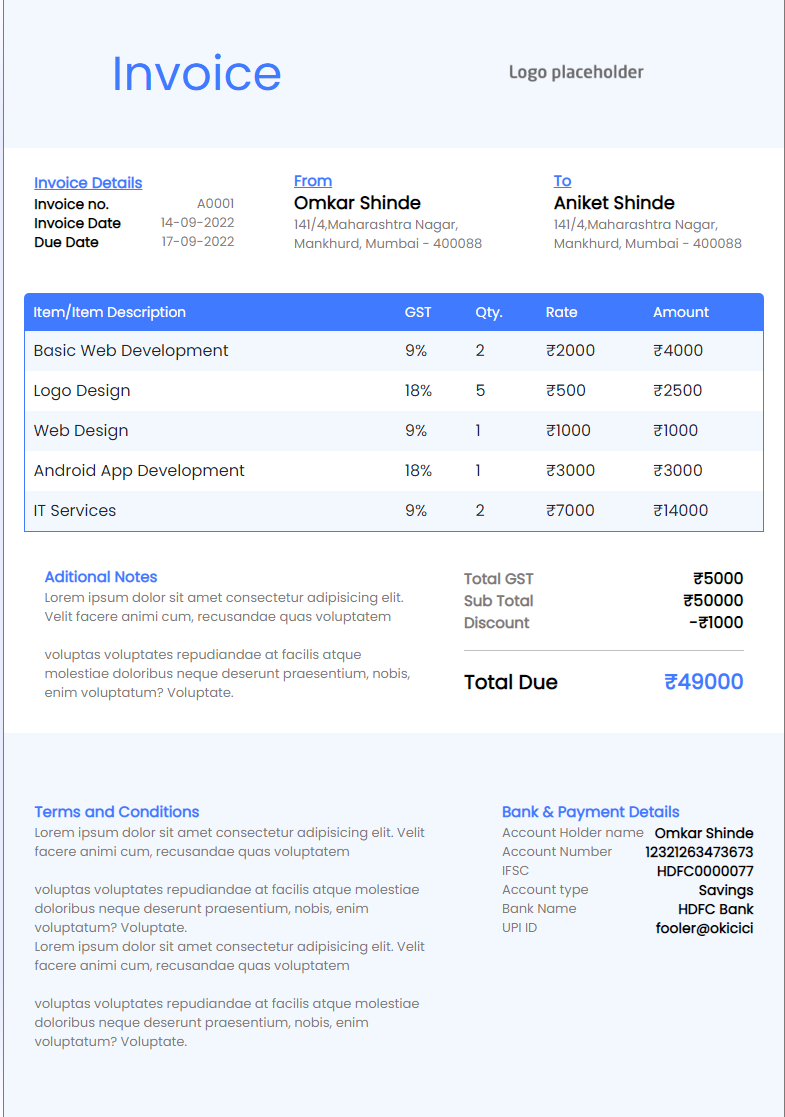
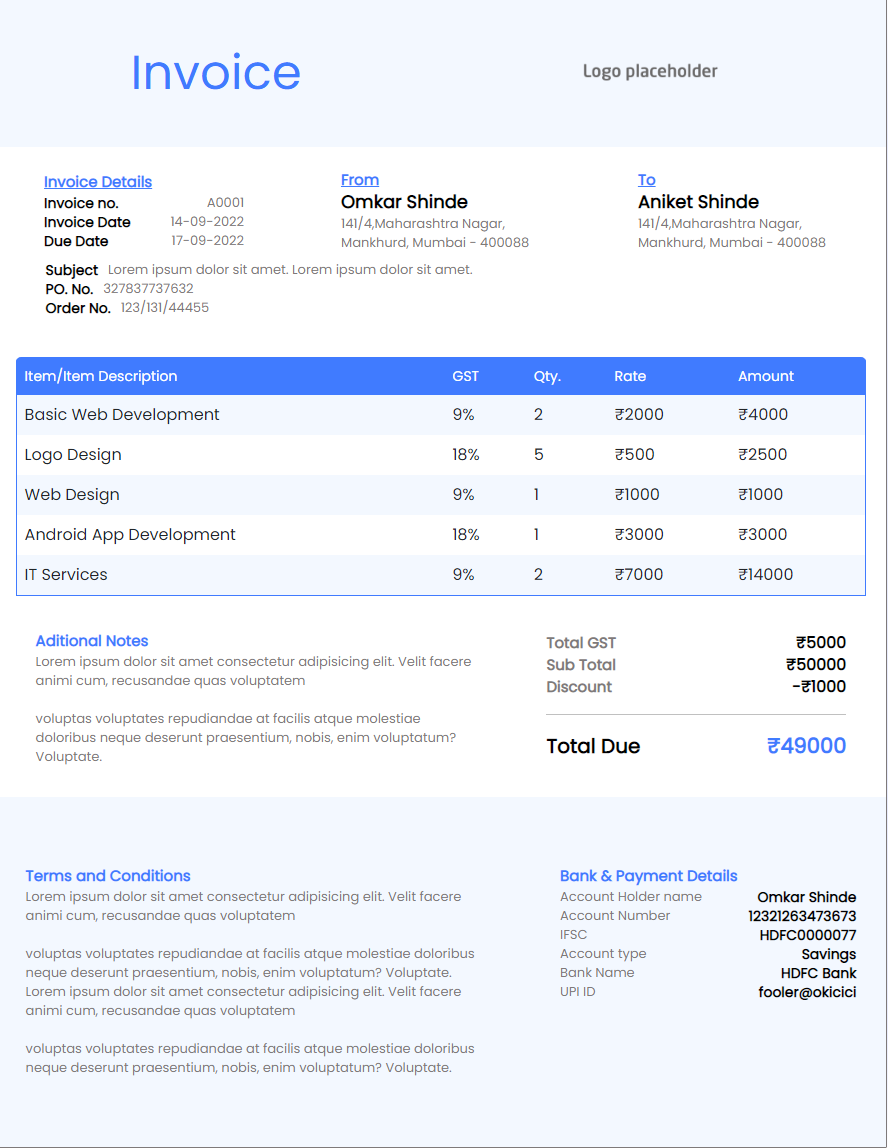
updated template

diff --git a/templates/printReady.html b/templates/printReady.html
@@ -85,6 +85,23 @@
             </div>
             <!-- /Invoice info, From & To part -->
 
+            <!-- More details container -->
+            <div class="container more-details-container pt-2">
+                <div class="more-details-inside-container">
+                    <p>Subject</p>
+                    <small>Lorem ipsum dolor sit amet. Lorem ipsum dolor sit amet.</small>
+                </div>
+                <div class="more-details-inside-container">
+                    <p>PO. No.</p>
+                    <small>327837737632</small>
+                </div>
+                <div class="more-details-inside-container">
+                    <p>Order No.</p>
+                    <small>123/131/44455</small>
+                </div>
+            </div>
+            <!-- More details container -->
+
             <!-- Invoice Table -->
             <div class="invoice-info-table-container table-responsive">
                 <table class="table table-striped">

diff --git a/templates/template-css/printReady.css b/templates/template-css/printReady.css
@@ -105,6 +105,20 @@ strong{
     
 }
 
+.more-details-container{
+    padding-left: 50px;
+}
+
+.more-details-inside-container{
+    display: flex;
+    align-items: center;
+
+}
+
+.more-details-inside-container p{
+    padding-right: 10px;
+}
+
 /* **********************table container************************/
 .table>:not(caption)>*>*{
     border-bottom: none;
@@ -376,7 +390,12 @@ hr{
     h3{
         font-size: 20px !important;
     }
+
+    .more-details-container{
+        padding-left: 20px;
+    }
     
+       
 }
 
 @media only screen  and (min-width: 770px) and (max-width: 990px) {
@@ -409,4 +428,17 @@ hr{
         padding-left: 5px;
         padding-right: 20px;
     }
+
+    .more-details-container{
+        padding-left: 50px;
+    }
+    
+    .more-details-inside-container p{
+        font-size: 10px;
+    }
+
+    .more-details-inside-container small{
+        font-size: 10px;
+    }
+    
 }
